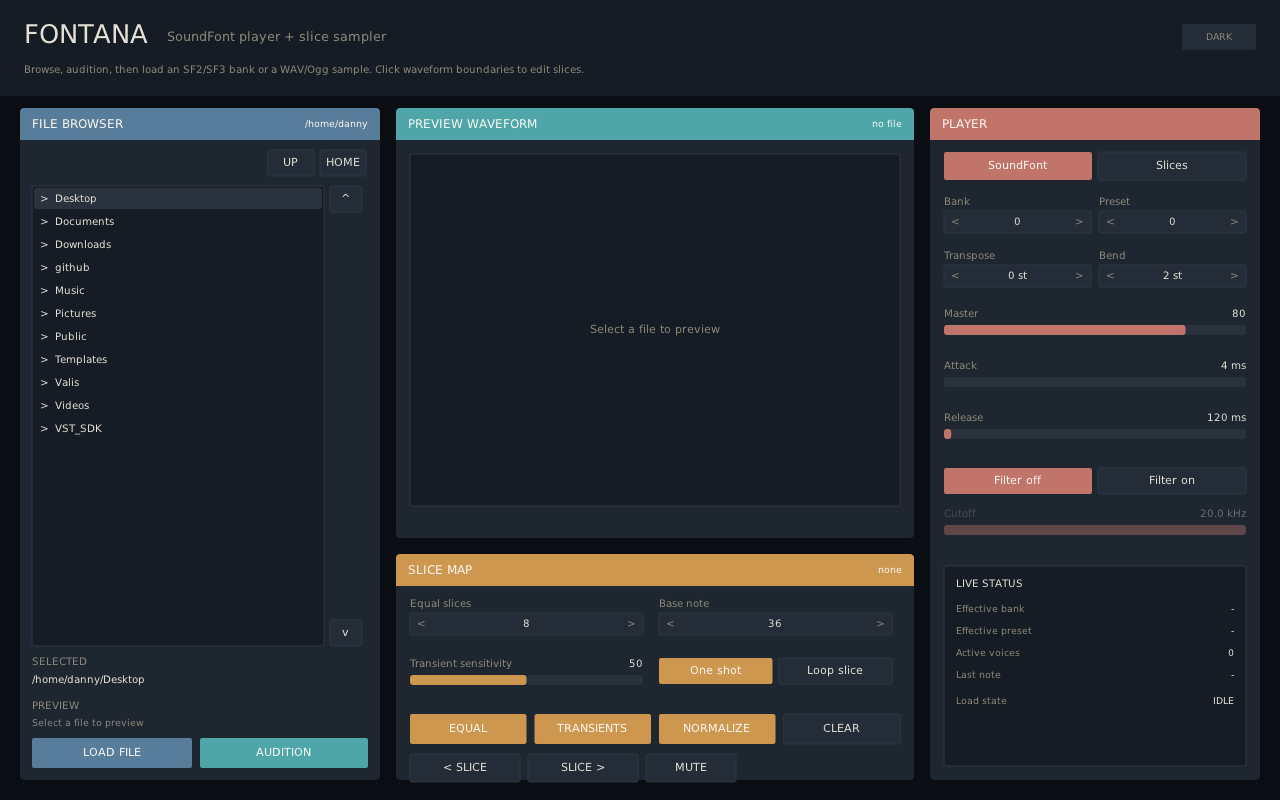
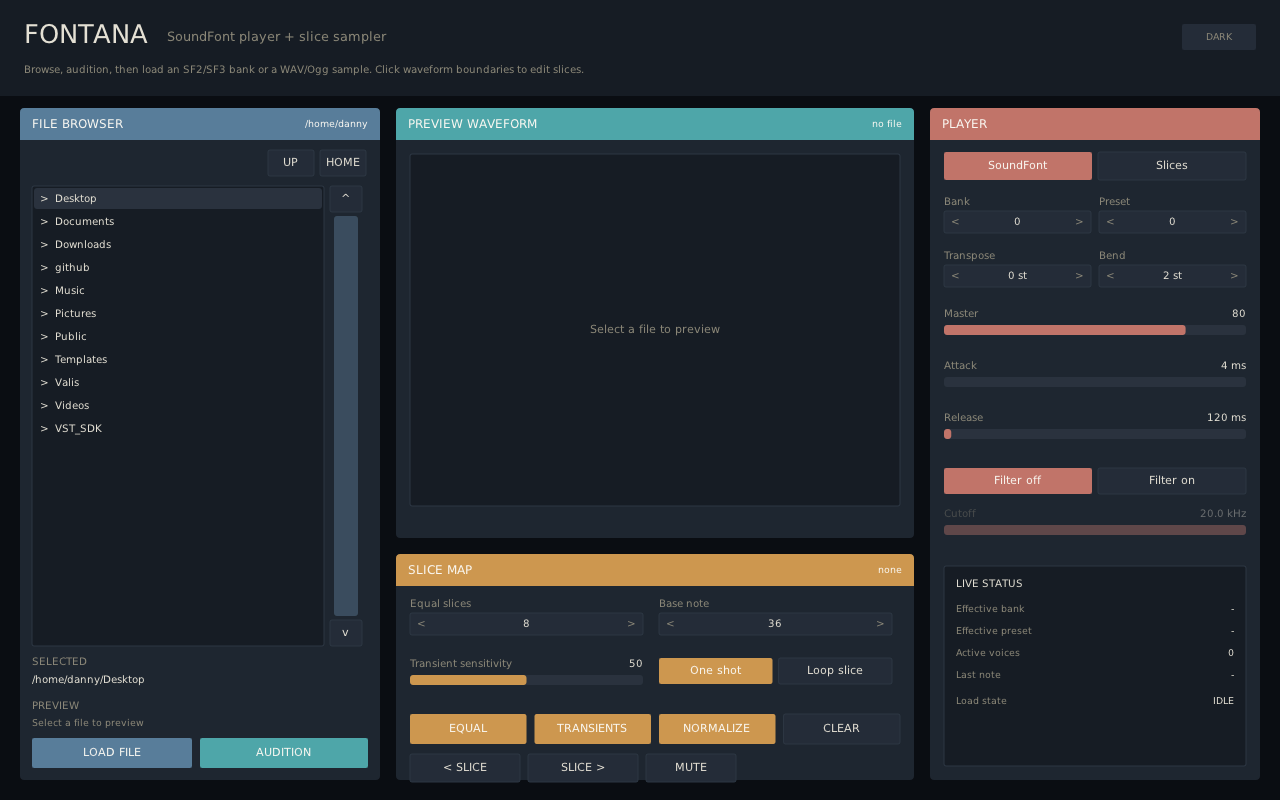
fixes maybe

Changed region(s): [[0.25, 0.25, 0.2812, 0.7812]]

diff --git a/plugins/fontana/src/dpf/FontanaUI.cpp b/plugins/fontana/src/dpf/FontanaUI.cpp
@@ -294,6 +294,10 @@ protected:
 
     bool onMouse(const MouseEvent& ev) override
     {
+        if (!ev.press && draggingScrollbar_) {
+            draggingScrollbar_ = false;
+            return true;
+        }
         if (!ev.press && draggingBoundary_ >= 0) {
             draggingBoundary_ = -1;
             commitSlices();
@@ -303,6 +307,17 @@ protected:
         const float mx = static_cast<float>(ev.pos.getX());
         const float my = static_cast<float>(ev.pos.getY());
         if (ev.press && ev.button == 1) {
+            if (browserScrollThumbRect_.contains(mx, my)) {
+                draggingScrollbar_ = true;
+                scrollbarGrabOffset_ = my - browserScrollThumbRect_.y;
+                return true;
+            }
+            if (browserScrollTrackRect_.contains(mx, my)) {
+                draggingScrollbar_ = true;
+                scrollbarGrabOffset_ = browserScrollThumbRect_.h * 0.5f;
+                setBrowserScrollFromPointer(my);
+                return true;
+            }
             for (std::size_t i = 0; i < browserRowRects_.size(); ++i) {
                 if (!browserRowRects_[i].contains(mx, my))
                     continue;
@@ -347,14 +362,21 @@ protected:
     {
         const float mx = static_cast<float>(ev.pos.getX());
         const float my = static_cast<float>(ev.pos.getY());
-        if (!browserListRect_.contains(mx, my))
+        if (!browserListRect_.contains(mx, my) && !browserScrollTrackRect_.contains(mx, my))
             return false;
-        scrollBrowser(ev.delta.getY() > 0.0f ? -3 : 3);
+        const double delta = ev.delta.getY();
+        if (delta == 0.0)
+            return true;
+        scrollBrowser(delta > 0.0 ? -3 : 3);
         return true;
     }
 
     bool onMotion(const MotionEvent& ev) override
     {
+        if (draggingScrollbar_) {
+            setBrowserScrollFromPointer(static_cast<float>(ev.pos.getY()));
+            return true;
+        }
         if (MagnetoUI::onMotion(ev))
             return true;
         if (draggingBoundary_ <= 0 || slices_.empty())
@@ -394,10 +416,28 @@ private:
         return p;
     }
 
+    [[nodiscard]] int maxBrowserScroll() const noexcept
+    {
+        return std::max(0, static_cast<int>(browserEntries_.size()) - browserVisibleRows_);
+    }
+
     void scrollBrowser(const int delta)
     {
-        const int maxScroll = std::max(0, static_cast<int>(browserEntries_.size()) - browserVisibleRows_);
-        browserScroll_ = std::clamp(browserScroll_ + delta, 0, maxScroll);
+        browserScroll_ = std::clamp(browserScroll_ + delta, 0, maxBrowserScroll());
+        repaint();
+    }
+
+    void setBrowserScrollFromPointer(const float pointerY)
+    {
+        const float travel = browserScrollTrackRect_.h - browserScrollThumbRect_.h;
+        if (travel <= 0.0f) {
+            browserScroll_ = 0;
+            repaint();
+            return;
+        }
+        const float ratio = std::clamp(
+            (pointerY - scrollbarGrabOffset_ - browserScrollTrackRect_.y) / travel, 0.0f, 1.0f);
+        browserScroll_ = static_cast<int>(ratio * static_cast<float>(maxBrowserScroll()) + 0.5f);
         repaint();
     }
 
@@ -631,6 +671,32 @@ private:
         drawButton(kActionBrowserScrollUp, "^", {scrollX, list.y, 32.0f, 26.0f}, kAccentBrowser, false);
         drawButton(kActionBrowserScrollDown, "v", {scrollX, list.y + list.h - 26.0f, 32.0f, 26.0f}, kAccentBrowser, false);
 
+        const Rect track {scrollX + 4.0f, list.y + 30.0f, 24.0f,
+                          std::max(8.0f, list.h - 60.0f)};
+        browserScrollTrackRect_ = track;
+        const float thumbH = browserEntries_.empty()
+                                 ? track.h
+                                 : std::clamp(track.h * static_cast<float>(visible) /
+                                                  static_cast<float>(browserEntries_.size()),
+                                              20.0f, track.h);
+        const float travel = track.h - thumbH;
+        const int maxScroll = maxBrowserScroll();
+        const float thumbY = track.y + (maxScroll > 0
+                                            ? travel * static_cast<float>(browserScroll_) /
+                                                  static_cast<float>(maxScroll)
+                                            : 0.0f);
+        const Rect thumb {track.x, thumbY, track.w, thumbH};
+        browserScrollThumbRect_ = thumb;
+        beginPath();
+        fc(t.controlTrack);
+        roundedRect(track.x, track.y, track.w, track.h, 3.0f);
+        fill();
+        beginPath();
+        fillColor(kAccentBrowser.r, kAccentBrowser.g, kAccentBrowser.b,
+                  static_cast<unsigned char>(maxScroll > 0 ? 220 : 90));
+        roundedRect(thumb.x, thumb.y, thumb.w, thumb.h, 3.0f);
+        fill();
+
         const float infoY = y + h - 124.0f;
         label(x + 12.0f, infoY, "SELECTED");
         fc(t.textPrimary);
@@ -817,9 +883,13 @@ private:
     std::vector<BrowserEntry> browserEntries_ {};
     std::vector<Rect> browserRowRects_ {};
     Rect browserListRect_ {};
+    Rect browserScrollTrackRect_ {};
+    Rect browserScrollThumbRect_ {};
     int browserVisibleRows_ = 1;
     int selectedEntry_ = -1;
     int browserScroll_ = 0;
+    bool draggingScrollbar_ = false;
+    float scrollbarGrabOffset_ = 0.0f;
     std::string soundFontPath_ {};
     std::string samplePath_ {};
     std::string previewPath_ {};

diff --git a/plugins/fontana/tests/fontana_core_tests.cpp b/plugins/fontana/tests/fontana_core_tests.cpp
@@ -162,12 +162,10 @@ std::vector<std::uint8_t> makeSoundFont()
     putU16(pgen, 0);
 
     std::vector<std::uint8_t> inst;
-    fixedField(inst, "Test Inst", 16);
+    fixedField(inst, "Test Inst", 20);
     putU16(inst, 0);  // bag index
-    putU32(inst, 0);  // library
-    fixedField(inst, "EOI", 16);
+    fixedField(inst, "EOI", 20);
     putU16(inst, 1);  // bag index
-    putU32(inst, 0);  // library
 
     std::vector<std::uint8_t> ibag;
     putU16(ibag, 0);
@@ -260,6 +258,8 @@ void testGeneratorsAndParameters()
     assert(defaults.get(Gen::InitialAttenuation) == 0);
     assert(defaults.get(Gen::AttackVolEnv) == -12000);
     assert(defaults.get(Gen::ScaleTuning) == 100);
+    assert(!defaults.has(Gen::OverridingRootKey));
+    assert(!defaults.has(Gen::End));
 
     GenSet override;
     override.set(Gen::Pan, -250);
@@ -384,6 +384,7 @@ void testSoundFontParsingAndResolution()
     assert(loaded.bank.versionMajor == 2);
     assert(loaded.bank.presets.size() == 1);
     assert(loaded.bank.instruments.size() == 1);
+    assert(loaded.bank.instruments[0].name == "Test Inst");
     assert(loaded.bank.samples.size() == 1);
     assert(loaded.bank.samples[0].valid);
     assert(loaded.bank.samples[0].data.size() == 64);
@@ -403,6 +404,32 @@ float peakAbsolute(const float* buffer, const std::size_t frames)
     for (std::size_t i = 0; i < frames; ++i)
         peak = std::max(peak, std::fabs(buffer[i]));
     return peak;
+}
+
+void testSoundFontPlayback()
+{
+    const auto path = scratchPath("playback.sf2");
+    writeBytes(path, makeSoundFont());
+    const auto loaded = loadSoundFont(path.string());
+    assert(loaded.error.empty());
+
+    Parameters parameters;
+    parameters.masterVolume = 1.0f;
+    EngineState state;
+    activate(state, 44100.0);
+    std::array<float, 256> left {};
+    std::array<float, 256> right {};
+    AudioBlock audio;
+    audio.outputs[0] = left.data();
+    audio.outputs[1] = right.data();
+    audio.channelCount = 2;
+
+    const MidiInputEvent on = noteEvent(0, 0x90, 60, 120);
+    processBlock(state, parameters, &loaded.bank, nullptr, nullptr, 0u, &on, 1,
+                 static_cast<std::uint32_t>(left.size()), 44100.0, audio);
+    assert(peakAbsolute(left.data(), left.size()) > 0.01f);
+    assert(parameters.statusVoices >= 1.0f);
+    assert(parameters.statusLastNote == 60.0f);
 }
 
 void testEnginePlayback()
@@ -452,6 +479,7 @@ int main()
     testSlicing();
     testStateRoundTrips();
     testSoundFontParsingAndResolution();
+    testSoundFontPlayback();
     testEnginePlayback();
     return 0;
 }

diff --git a/plugins/fontana/src/fontana_soundfont.cpp b/plugins/fontana/src/fontana_soundfont.cpp
@@ -25,6 +25,7 @@ constexpr std::size_t kBagSize = 4u;
 constexpr std::size_t kModSize = 10u;
 constexpr std::size_t kGenSize = 4u;
 constexpr std::size_t kInstSize = 22u;
+constexpr std::size_t kInstNameBytes = 20u;
 constexpr std::size_t kShdrSize = 46u;
 
 [[nodiscard]] std::uint16_t readU16(const unsigned char* p) noexcept
@@ -272,8 +273,9 @@ struct SampleHeader {
     for (std::size_t i = 0; i + 1u < count; ++i) {
         const unsigned char* p = inst.data + i * kInstSize;
         InstrumentHeader header;
-        header.name = fixedName(p, 16u);
-        header.bagIndex = readU16(p + 16u);
+        // SF2 2.04: sfInst is char[20] name followed by the bag index.
+        header.name = fixedName(p, kInstNameBytes);
+        header.bagIndex = readU16(p + kInstNameBytes);
         out.push_back(std::move(header));
     }
     return true;
@@ -434,9 +436,9 @@ void setSamplePoints(Sample& sample, const SampleHeader& header, const std::uint
 GenSet defaultGenerators() noexcept
 {
     GenSet generators;
-    for (std::size_t i = 0; i < generators.value.size(); ++i)
-        generators.value[i] = 0;
 
+    // Leave everything else unset: 0 is a meaningful value for generators such
+    // as OverridingRootKey and End, and must not be confused with "inherit".
     generators.set(Gen::InitialFilterFc, 13500);
     generators.set(Gen::InitialFilterQ, 0);
     generators.set(Gen::ScaleTuning, 100);
@@ -635,7 +637,8 @@ SoundFontLoadResult loadSoundFont(const std::string& path)
         return result;
     }
     const std::uint16_t presetBagEnd = readU16(phdr.data + (phdrCount - 1u) * kPhdrSize + 24u);
-    const std::uint16_t instBagEnd = readU16(inst.data + (instCount - 1u) * kInstSize + 16u);
+    const std::uint16_t instBagEnd =
+        readU16(inst.data + (instCount - 1u) * kInstSize + kInstNameBytes);
 
     std::vector<PresetHeader> presetHeaders;
     std::vector<InstrumentHeader> instrumentHeaders;

diff --git a/AGENTS.md b/AGENTS.md
@@ -36,6 +36,8 @@ Distilled from the retired MISTAKES.md; keep adding new recurring patterns to MI
 - Measure before building: write the accuracy probe (pitch ratio, filter response across the whole parameter space) before wiring DSP. Use a Goertzel magnitude, not zero-crossings, on spliced signals. Read the reference function (e.g. `plinky.c` `stride()`) before describing it.
 - Measuring a tone's size: sum the Hann main-lobe energy (`A = sqrt(32/3 x sum|X|^2) / N`) and use the same window length as the render. A single peak bin loses up to 15 % to scalloping and silently skews ratios. Treat DC as harmonic 0 and exclude +-16 bins around each harmonic when measuring aliasing.
 - Before concluding the DSP is wrong, derive the reference from the formula for the stated order and check one point by hand (a 4-pole is -40 log10(1 + m^2), not half that). When a metric mixes two effects (resonant peak and passband loss), neutralise one before measuring the other.
+- When a binary parser rejects a real file, hex-inspect the failing record against the spec before loosening validation. Fontana's `inst` record is a 20-byte name followed by the bag index at offset 20.
+- A default generator set must leave absent fields unset: zero is meaningful for `OverridingRootKey`, `End` and similar fields. Assert `!has(...)` where absence changes behaviour, not just the numeric default.
 - A bound on output level is the wrong stability test for cascaded boosts (they legitimately exceed 100 dB): check that the impulse response decays.
 - Build output: filter with `grep -E "error:|Error [0-9]"` and check the exit status. After adding a test, confirm it actually ran (count/runtime changed) before saying it passes.
 - An STFT/overlap-add effect's first test is a unity-mask round trip: output equals the input delayed by the reported latency (level within 0.1 dB, correlation > 0.999, nearest best lag), plus a single-tap impulse response and block-size invariance. Allocation and finiteness are smoke checks, not core tests.
@@ -54,6 +56,7 @@ Distilled from the retired MISTAKES.md; keep adding new recurring patterns to MI
 - Generate stepper label tables from the value and clamp the index; give an empty state no mark. Derive plot shapes numerically and compare with the image.
 - Loop fixed tables with range-for or `std::size`; hard-coded counts can read past the end (the Melevolve About-tab crash).
 - Give list scroll controls a dedicated gutter and handle list rows before generic action rectangles. Clamp scrolling by the visible row count, match glyph direction, support wheel scrolling, and only decode previews on explicit selection.
+- Probe list scrolling with more entries than fit in the list; a wheel/drag screenshot diff is meaningless when the sample directory has fewer rows than the visible area.
 - When the user explicitly accepts captured images, copy them into the catalog and remove acceptance-pending wording from docs.
 
 **Process**

diff --git a/docs/pages/_products/fontana.md b/docs/pages/_products/fontana.md
@@ -47,8 +47,9 @@ leaving the editor.
 - A custom NanoVG browser lists directories, SoundFont files and audio files.
   Selecting a file decodes it and draws min/max waveform peaks; entering a folder no
   longer auto-decodes its first file.
-- The list has a dedicated scroll gutter with `^`/`v` buttons and mouse-wheel support,
-  so clicks on the right edge of a row navigate or select instead of scrolling.
+- The list has a dedicated gutter with `^`/`v` buttons, a draggable proportional
+  scrollbar and mouse-wheel support, so clicks on the right edge of a row navigate
+  or select instead of scrolling.
 - **Audition** plays the selected file through an isolated preview engine.
 - **Load file** assigns an SF2/SF3 to the SoundFont slot or a WAV/Ogg to the
   sample slot and triggers the audition.
